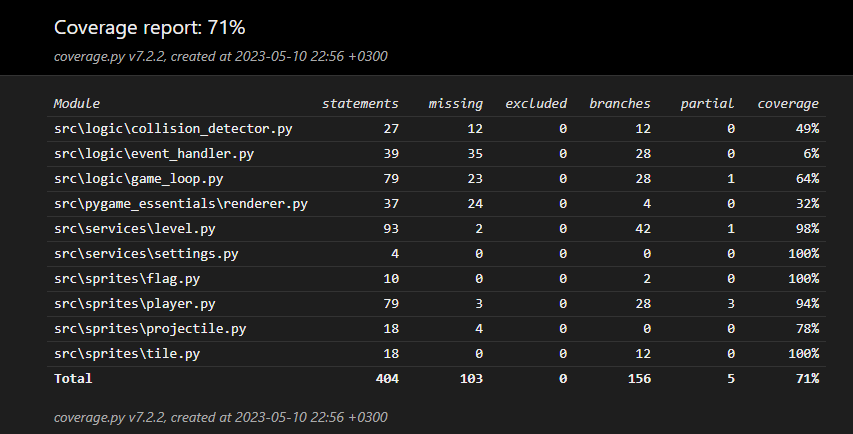
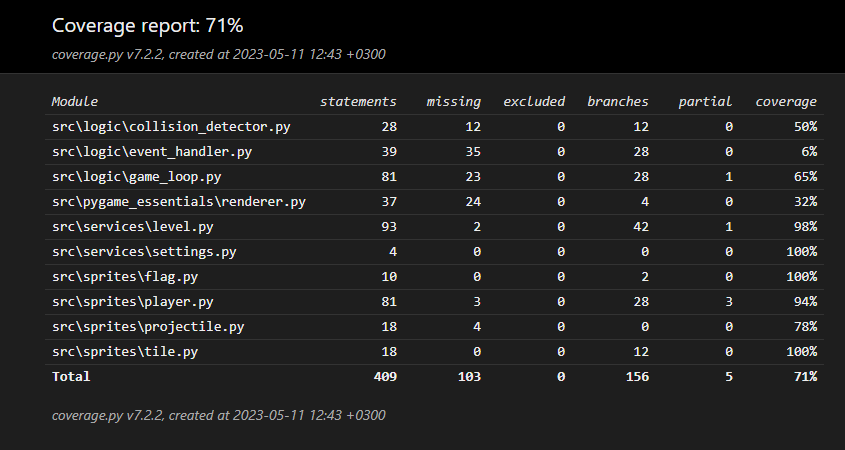
Viikko 7 päivitys 5

diff --git a/src/sprites/player.py b/src/sprites/player.py
@@ -91,7 +91,7 @@ class Player(pygame.sprite.Sprite):
         can_move_to_wanted_pos = self.can_move and \
             wanted_pos in " "+"p"+str(self.opponent_num)+"flag"
         if wanted_pos in self.goal and self.has_flag:
-            self._add_point()
+            self.add_point()
         elif abs(self.pos[1] - self.real_pos[1]) == 0 and can_move_to_wanted_pos:
             self.pos[1] -= 1
             self.pos[0] = self.real_pos[0]
@@ -105,7 +105,7 @@ class Player(pygame.sprite.Sprite):
         can_move_to_wanted_pos = self.can_move and \
             wanted_pos in " "+"p"+str(self.opponent_num)+"flag"
         if wanted_pos in self.goal and self.has_flag:
-            self._add_point()
+            self.add_point()
         elif abs(self.pos[1] - self.real_pos[1]) == 0 and can_move_to_wanted_pos:
             self.pos[1] += 1
             self.pos[0] = self.real_pos[0]
@@ -119,7 +119,7 @@ class Player(pygame.sprite.Sprite):
         can_move_to_wanted_pos = self.can_move and \
             wanted_pos in " "+"p"+str(self.opponent_num)+"flag"
         if wanted_pos in self.goal and self.has_flag:
-            self._add_point()
+            self.add_point()
         elif abs(self.pos[0] - self.real_pos[0]) == 0 and can_move_to_wanted_pos:
             self.pos[0] -= 1
             self.pos[1] = self.real_pos[1]
@@ -133,22 +133,27 @@ class Player(pygame.sprite.Sprite):
         can_move_to_wanted_pos = self.can_move and \
             wanted_pos in " "+"p"+str(self.opponent_num)+"flag"
         if wanted_pos in self.goal and self.has_flag:
-            self._add_point()
+            self.add_point()
         elif abs(self.pos[0] - self.real_pos[0]) == 0 and can_move_to_wanted_pos:
             self.pos[0] += 1
             self.pos[1] = self.real_pos[1]
         return wanted_pos
 
-    def _add_point(self):
+    def add_point(self):
         """Handles the addition of points to the player.
         If the player takes the flag to the goal, they should not
         be able to move anymore on their turn.
         """
 
-        self.points += 1
+        self.points += 2
         self.has_flag = False
         self.reset_flag = True
         self.can_move = False
+
+    def add_point_from_a_kill(self):
+        """Handles the addition of points to the player when killing the enemy.
+        """
+        self.points += 1
 
     def die(self):
         """Respawns the player to their respawn point.

diff --git a/src/index.py b/src/index.py
@@ -13,21 +13,24 @@ def main():
     gets reset between games.
     """
 
-    while True:
-        display_width = services.settings.TILESIZE * len(services.settings.MAP[0])
-        display_height = services.settings.TILESIZE * len(services.settings.MAP)
-        display = pygame.display.set_mode((display_width, display_height))
-        pygame.display.set_caption("Capture The Flag")
-        game_clock = pygame_essentials.clock.Clock()
-        game_level = services.level.Level()
-        game_event_queue = pygame_essentials.event_queue.EventQueue()
-        loop = logic.game_loop.GameLoop(
-        game_level, display, game_event_queue, game_clock)
-        pygame.init()
+    try:
+        while True:
+            display_width = services.settings.TILESIZE * len(services.settings.MAP[0])
+            display_height = services.settings.TILESIZE * len(services.settings.MAP)
+            display = pygame.display.set_mode((display_width, display_height))
+            pygame.display.set_caption("Capture The Flag")
+            game_clock = pygame_essentials.clock.Clock()
+            game_level = services.level.Level()
+            game_event_queue = pygame_essentials.event_queue.EventQueue()
+            loop = logic.game_loop.GameLoop(
+            game_level, display, game_event_queue, game_clock)
+            pygame.init()
 
-        if loop.start() is False:
-            break
-
+            if loop.start() is False:
+                break
+    except:
+        print("Something went wrong, did you change the settings incorrectly?")
+        print("If so, please revert any changes.")
 
 if __name__ == "__main__":
     main()

diff --git a/src/logic/collision_detector.py b/src/logic/collision_detector.py
@@ -21,19 +21,21 @@ def detect_collisions(player_one, player_two, projectile_one, projectile_two, ga
                             int(projectile_two.location[1] / services.settings.TILESIZE)]
 
     if projectile2_position == player_one.real_pos:
-        handle_player_death(game_map, player_one, projectile_two, "p1")
+        handle_player_death(game_map, player_one, player_two, projectile_two, "p1")
 
     if projectile1_position == player_two.real_pos:
-        handle_player_death(game_map, player_two, projectile_one, "p2")
+        handle_player_death(game_map, player_two, player_one, projectile_one, "p2")
+
+    walls = ["x", "p1gu", "p1g", "p1gl", "p2gu", "p2g", "p2gl"]
 
     if projectile_one.location[0] >= 0 and game_map[projectile1_position[1]]\
-        [projectile1_position[0]] == "x":
+        [projectile1_position[0]] in walls:
         projectile_one.die()
     if projectile_two.location[0] >= 0 and game_map[projectile2_position[1]]\
-        [projectile2_position[0]] == "x":
+        [projectile2_position[0]] in walls:
         projectile_two.die()
 
-def handle_player_death(game_map, player, projectile, p1orp2: str):
+def handle_player_death(game_map, player, killer, projectile, p1orp2: str):
     """Do the necessary actions when a projectile collides with a player
 
     Args:
@@ -43,6 +45,7 @@ def handle_player_death(game_map, player, projectile, p1orp2: str):
         p1orp2: A string to be used in the matrix represantation of the game_map.
     """
 
+    killer.add_point_from_a_kill()
     game_map[player.pos[1]][player.pos[0]] = " "
     death_point = copy.deepcopy(player.pos)
     if p1orp2 == "p1":

diff --git a/src/tests/collision_test.py b/src/tests/collision_test.py
@@ -8,19 +8,19 @@ import sprites.projectile
 class TestCollisionDetector(unittest.TestCase):
     def setUp(self):
         self.player = sprites.player.Player([], 1, [1,1], [1,1])
+        self.player2 = sprites.player.Player([], 2, [1,1], [0,0])
         self.game_map = [["x", "x", "x", "x"], ["x", "p1", " ", "x"], [
             "x", " ", " ", "x"], ["x", "x", "x", "x"]]
         self.projectile = sprites.projectile.Projectile()
 
     def test_handle_player_death(self):
         self.assertEqual(self.game_map[1], ["x", "p1", " ", "x"])
-        logic.collision_detector.handle_player_death(self.game_map, self.player, self.projectile, "p1")
+        logic.collision_detector.handle_player_death(self.game_map, self.player, self.player2, self.projectile, "p1")
         self.assertEqual(self.game_map[1], ["x", " ", " ", "x"])
 
     def test_flag_drops_after_player_death(self):
-        player2 = sprites.player.Player([], 2, [1,1], [0,0])
-        player2.has_flag = True
+        self.player2.has_flag = True
         game_map = [["x", "p2", " ", "x"], ["x", " ", " ", "x"]]
         self.assertEqual(game_map[1], ["x", " ", " ", "x"])
-        logic.collision_detector.handle_player_death(game_map, player2, self.projectile, "p2")
+        logic.collision_detector.handle_player_death(game_map, self.player2, self.player, self.projectile, "p2")
         self.assertEqual(game_map[1], ["x", "p1flag", " ", "x"])

diff --git a/src/tests/player_test.py b/src/tests/player_test.py
@@ -80,9 +80,19 @@ class TestPlayer(unittest.TestCase):
         self.assertEqual(self.player.real_pos, [1, 1])
         self.assertEqual(self.player.has_flag, False)
         self.assertEqual(self.player.reset_flag, True)
-        self.assertEqual(self.player.points, 1)
+        self.assertEqual(self.player.points, 2)
 
     def test_player_does_not_move_with_wrong_input(self):
         self.player.move(self.game_map, "rigth")
         self.assertEqual(self.player.pos, [1, 1])
         self.assertEqual(self.player.real_pos, [1, 1])
+
+    def test_player_gets_a_point_from_hitting_the_enemy(self):
+        self.assertEqual(self.player.points, 0)
+        self.player.add_point_from_a_kill()
+        self.assertEqual(self.player.points, 1)
+
+    def test_add_point_works(self):
+        self.assertEqual(self.player.points, 0)
+        self.player.add_point()
+        self.assertEqual(self.player.points, 2)

diff --git a/src/services/level.py b/src/services/level.py
@@ -129,15 +129,14 @@ class Level:
             flag = self.flag_2
         else:
             flag = self.flag_1
-        x_coordinate = j * services.settings.TILESIZE
-        y_coordinate = i * services.settings.TILESIZE
-        if player.has_flag:
-            flag.current_position = [j, i,]
-            flag.rect.topleft = (x_coordinate, y_coordinate)
+
         player.pos = [j, i,]
         render_pos_x = player.rendering_pos[0] * services.settings.TILESIZE
         render_pos_y = player.rendering_pos[1] * services.settings.TILESIZE
         player.rect.topleft = (render_pos_x, render_pos_y)
+        if player.has_flag:
+            flag.current_position = [j, i,]
+            flag.rect.topleft = (render_pos_x, render_pos_y)
 
     def update_flags(self, flag, j, i):
         """Updates the flags location on the screen.

diff --git a/src/logic/game_loop.py b/src/logic/game_loop.py
@@ -114,10 +114,13 @@ class GameLoop:
         elif self.current_turn == 10:
             self.current_turn = 11
         else:
-            self.current_turn = 1
-            self.current_player = self.player1
-            self.current_projectile = self.p1_projectile
-            self.turns -= 1
+            self.handle_turn_change()
+
+    def handle_turn_change(self):
+        self.current_turn = 1
+        self.current_player = self.player1
+        self.current_projectile = self.p1_projectile
+        self.turns -= 1
 
     def handle_player_positions(self):
         """Makes sure that the players do not see each other until the phase of

diff --git a/src/services/settings.py b/src/services/settings.py
@@ -6,8 +6,8 @@ please download it again from the github page.
 Attributes:
     FPS: Indicates how many times in a frame the game updates. Both the 
     screen and the logic will be updated this many times in a second.
-    TILESIZE: Tells how many pixels large each image in the assets folder is.
-    All images in the folder must be the same size.
+    TILESIZE: Tells how many pixels large and wide each image in the assets folder
+    is. All images in the folder must be the same size.
     TURNS: Tells how many turns the game should have.
     MAP: A layout of the games arena.
 """

diff --git a/src/logic/event_handler.py b/src/logic/event_handler.py
@@ -12,8 +12,8 @@ def handle_events(game_loop):
     # pylint: disable=inconsistent-return-statements
     # According to the course material, this is a
     # good way of handling exit inputs. Also, if
-    # the method returned a value for every event, it would exit 
-    # the for loop every time, resulting in some inputs such as 
+    # the method returned a value for every event, it would exit
+    # the for loop every time, resulting in some inputs such as
     # the close inputs to not work at all.
 
     if game_loop.player1.reset_flag:

diff --git a/dokumentaatio/kayttoohje.md b/dokumentaatio/kayttoohje.md
@@ -21,6 +21,12 @@ Sen voi teknillisesti ohittaa painamalla välilyöntiä heti, mutta silloin ammu
 Ammuksia ammutaan klikkaamalla hiirellä siihen kohtaan ruutua, johon oletat
 vastustajasi liikkuvan. Pelaajilla on vain yksi ammus, joten uuden kohdan klikkaaminen ei luo uutta ammusta, vaan vaihtaa oman ammuksen suuntaa.
 
+Pelaaja saa yhden pisteen osuessaan vastustajansa ammuksellaan, sekä kaksi pistettä viedessään vastustajan lipun omaan maaliinsa. Pelaajat voivat käyttää maaleja esteinä heidän ja vastustajan ammusten välillä.
+
 Viedessään vastustajan lipun omaan maaliinsa, pelaaja ei liiku näytöllä, mutta hänen liikkumisensa on vuoron osalta käytetty.
+
+Pelaajat ei normaalisti voi liikkua oman lippunsa päältä, ettei omaa lippua voi vartioida liian tiukasti. Jos oma lippu on pudonnut samaan kohtaan mihin synnyt kun olet kuollut, niin tämä todennäköisesti poistaa lipun koko pelistä.
+
+Pelaajat voivat olla sisäkkäin, jos he molemmat liikkuvat samaan ruutuun. Tällöin vain toisen pelaajan grafiikka näkyy pelaajille. Tämän ei pitäisi muuttaa peliä mitenkään.
 
 Pelin ulkonäköä ja pituutta voi muokkaa "services" -hakemiston "settings.py" -tiedoston kautta. Huomaathan että virheellisten muokkausten suorittaminen voi aiheuttaa pelin kaatumisen, eikä tiedoston oikeellisuudelle ole testiä tällä hetkellä.

diff --git a/dokumentaatio/testaus.md b/dokumentaatio/testaus.md
@@ -9,8 +9,10 @@ Automatisoitujen testien haarautumakattavuus on 71%
 
 ## Toiminnallisuudet
 
-Kaikki [vaatimusmäärittelydokumentin](https://github.com/Robomarti/harjoitustyo/blob/master/dokumentaatio/vaatimusmaarittely.md) ja käyttöohjeen toiminnallisuudet on käyty läpi, ja niiden on todettu toimivan. Virheelliset syötteet eivät ole olleet ongelma pelin luonteen vuoksi.
+Kaikki [vaatimusmäärittelydokumentin](https://github.com/Robomarti/harjoitustyo/blob/master/dokumentaatio/vaatimusmaarittely.md) ja käyttöohjeen toiminnallisuudet on käyty läpi, ja niiden on todettu toimivan. Virheelliset syötteet eivät ole ongelma pelin luonteen vuoksi.
 
 ## Sovelluksen laatuongelmat
 
-Sovellus ei anna virheilmoitusta mikäli settings.py tiedoston sisältöjä muokataan virheellisesti.
+Sovellus ei anna virheilmoitusta mikäli settings.py tiedoston sisältöjä muokataan virheellisesti, mutta se antaa yleisesti varoituksen mahdollisesti virheellisestä tiedostosta jos mikä tahansa aiheuttaa pelin kaatumisen.
+
+Oma lippu voi poistua pelistä jos se putoaa omaan uudelleensyntymispaikkaan ja liikut siihen paikkaan.

diff --git a/dokumentaatio/tyoaikakirjanpito.md b/dokumentaatio/tyoaikakirjanpito.md
@@ -21,4 +21,5 @@
 | 6.5.2023 | 3 | Lisäsin grafiikat pelin loppumista sekä vuorojen vaihtoa varten, sekä itse pelin loppumisen kun pelivuoroja on jäljellä 0. |
 | 8.5.2023 | 2 | Sain pelin loppumisen ja uudelleenpelaamisen valmiiksi. Vähensin pylint virheitä |
 | 10.5.2023 | 6 | Sain pelaajien todellisen sijainnin pysymään toisiltaan salassa kunnes viimeinen osa vuorosta tapahtuu. Lisäsin myös pelin muokattavuutta settings.py tiedoston kautta. Lisäsin testikattavuutta ja dokumentaatiota. |
+| 11.5.2023 | 2 | Lisäsin dokumentaatiota. Lisäsin pisteidensaannin vastustajaan osumisesta, sekä maalien käytön suojana. |
 | Yht. | 43 | |
